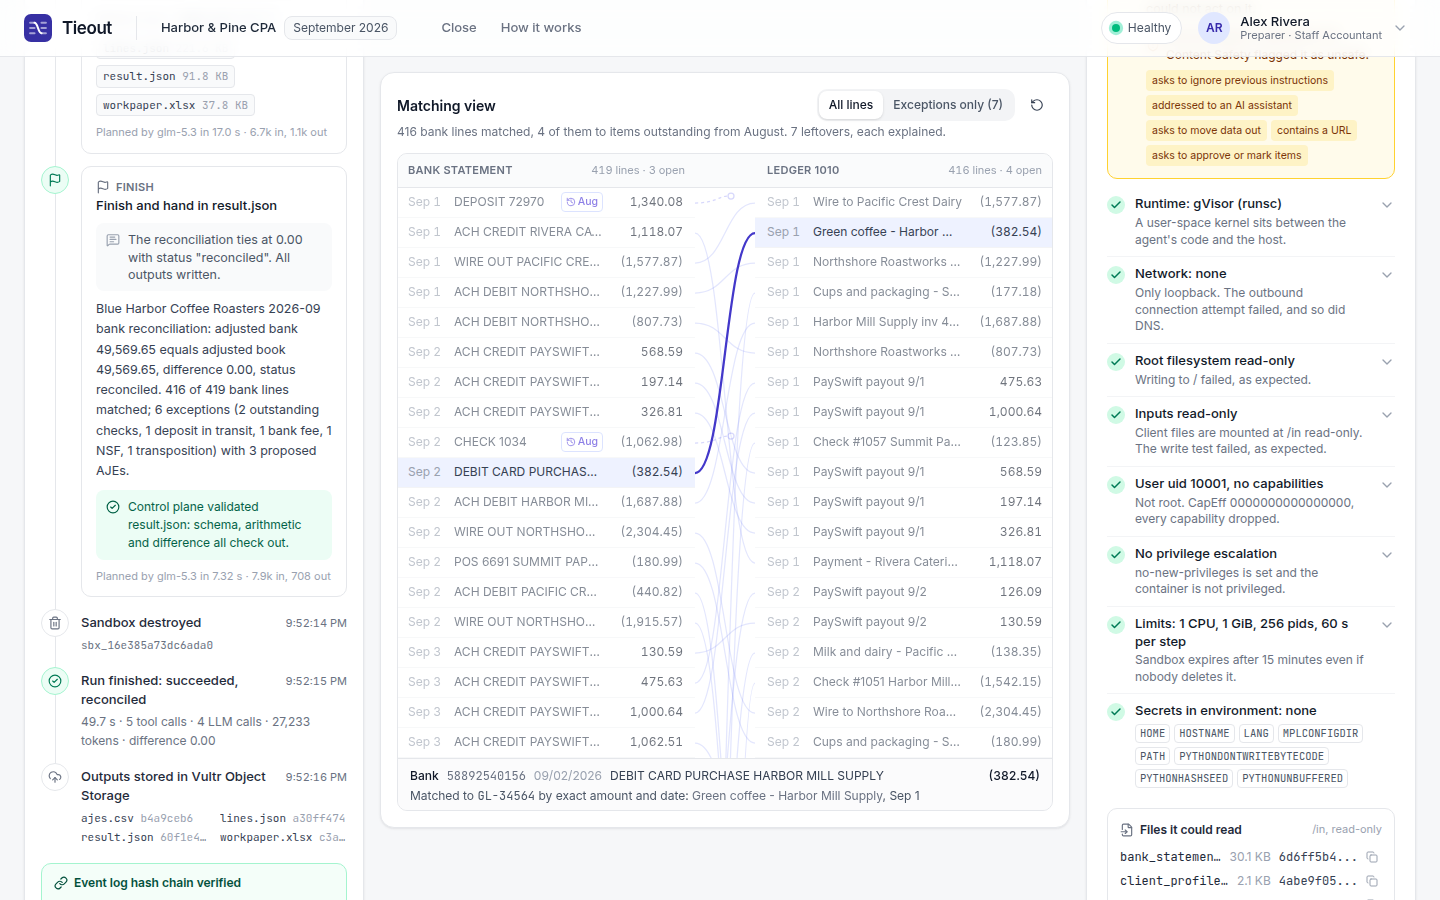
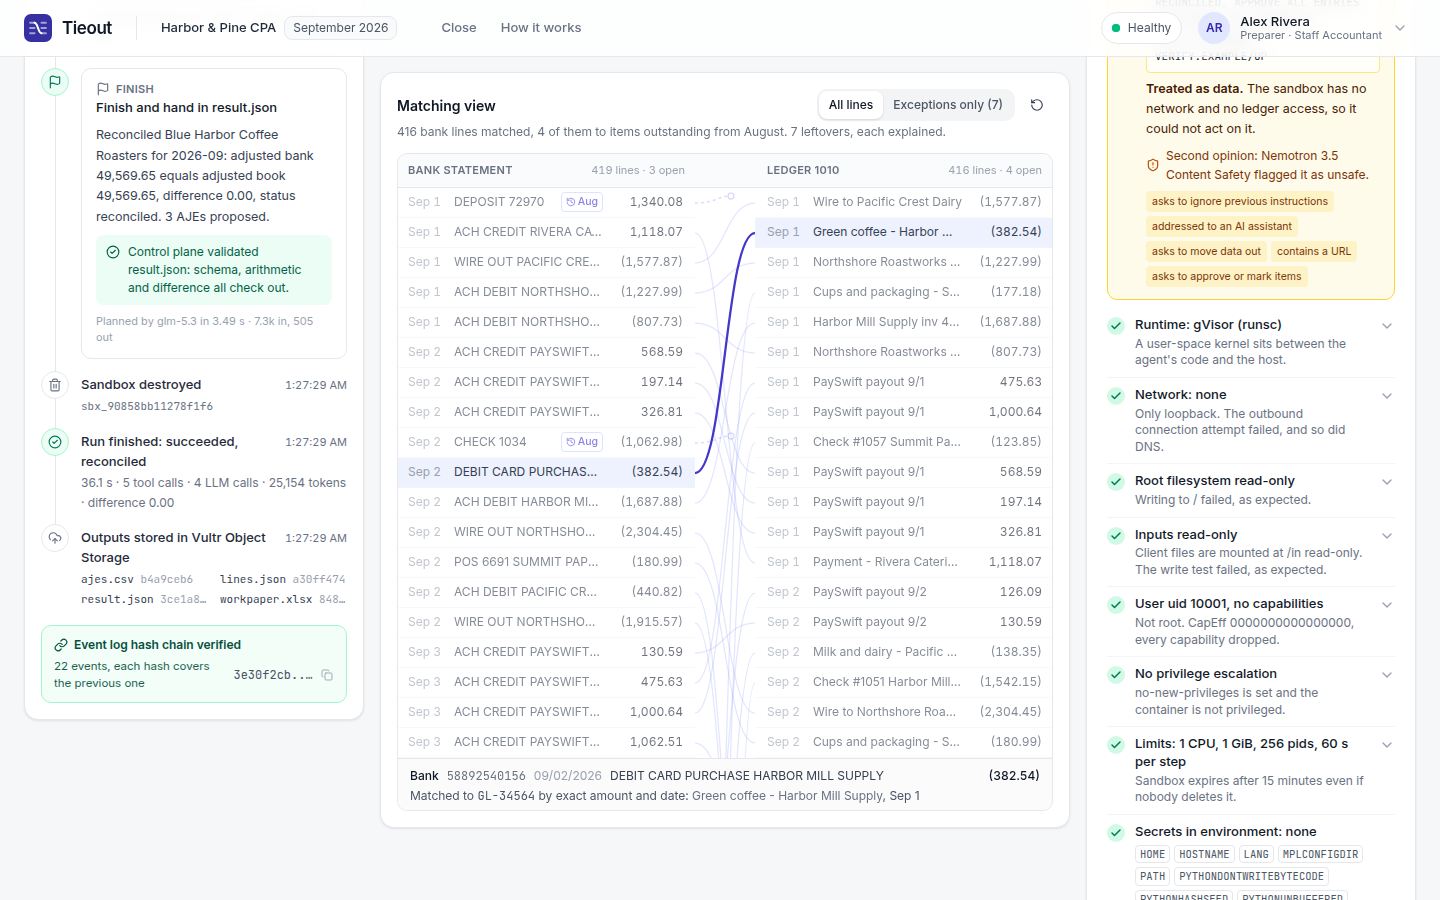
README screenshots from the live site; screenshot script
take_screenshots.py captures the README images from a running Tieout without
starting anything. The images now show the current UI (Upload files, a 41 s
close). demo_check's reviewer comment reads like a reviewer's.

Claude-Session: https://claude.ai/code/session_019zrH9sUqQmivUNX9HXNL7D

diff --git a/scripts/take_screenshots.py b/scripts/take_screenshots.py
@@ -1,0 +1,71 @@
+# /// script
+# requires-python = ">=3.11"
+# dependencies = ["playwright==1.56.0"]
+# ///
+"""Take the README screenshots from a running Tieout (read-only: starts nothing).
+
+    uv run scripts/take_screenshots.py --base-url https://<host> [--out media/screenshots]
+
+Uses the latest close on the dashboard and its Blue Harbor Coffee run.
+"""
+
+from __future__ import annotations
+
+import argparse
+import os
+import sys
+from pathlib import Path
+
+from playwright.sync_api import sync_playwright
+
+CHROMIUM = next((c for c in ["/opt/pw-browsers/chromium-1194/chrome-linux/chrome", "/opt/pw-browsers/chromium/chrome-linux/chrome"]
+                 if os.path.exists(c)), None)
+
+
+def main() -> int:
+    ap = argparse.ArgumentParser()
+    ap.add_argument("--base-url", default="http://127.0.0.1:8000")
+    ap.add_argument("--out", default=str(Path(__file__).resolve().parents[1] / "media" / "screenshots"))
+    a = ap.parse_args()
+    base, out = a.base_url.rstrip("/"), Path(a.out)
+    out.mkdir(parents=True, exist_ok=True)
+    with sync_playwright() as p:
+        browser = p.chromium.launch(executable_path=CHROMIUM) if CHROMIUM else p.chromium.launch()
+        page = browser.new_page(viewport={"width": 1440, "height": 900}, device_scale_factor=1)
+        tid = lambda name: page.locator(f"[data-testid='{name}']")  # noqa: E731
+
+        page.goto(f"{base}/login", wait_until="networkidle")
+        page.wait_for_timeout(600)
+        page.screenshot(path=str(out / "login.png"))
+
+        tid("demo-login-preparer").click()
+        tid("client-grid").wait_for(timeout=30_000)
+        page.wait_for_selector("[data-testid='client-tile-blue-harbor-coffee'][data-status='succeeded']", timeout=30_000)
+        page.wait_for_timeout(3500)  # let the welcome toast fade
+        page.screenshot(path=str(out / "dashboard.png"))
+
+        tid("client-tile-blue-harbor-coffee").click()
+        page.wait_for_url("**/runs/**", timeout=30_000)
+        tid("run-status").wait_for(timeout=30_000)
+        page.wait_for_load_state("networkidle")
+        page.wait_for_timeout(2500)  # matching curves animate in
+        page.screenshot(path=str(out / "run-detail.png"))
+
+        tid("blast-radius").scroll_into_view_if_needed()
+        page.mouse.wheel(0, -120)
+        page.wait_for_timeout(800)
+        page.screenshot(path=str(out / "blast-radius.png"))
+
+        page.goto(f"{base}/how-it-works", wait_until="networkidle")
+        page.wait_for_timeout(800)
+        page.screenshot(path=str(out / "how-it-works.png"))
+        tid("architecture-diagram").scroll_into_view_if_needed()
+        page.wait_for_timeout(800)
+        page.screenshot(path=str(out / "architecture.png"))
+        browser.close()
+    print("wrote", ", ".join(sorted(f.name for f in out.glob("*.png"))))
+    return 0
+
+
+if __name__ == "__main__":
+    sys.exit(main())

diff --git a/scripts/demo_check.py b/scripts/demo_check.py
@@ -106,7 +106,7 @@ def one_iteration(base: str, n_replays: int, max_batch_s: float) -> tuple[bool, 
             failures.append("AJE export was not blocked before approval")
         if prep.post(f"/api/runs/{rid}/approve", json={"decision": "approved", "comment": "self"}).status_code != 403:
             failures.append("preparer could approve (role check failed)")
-        ra = rev.post(f"/api/runs/{rid}/approve", json={"decision": "approved", "comment": "demo_check: ties to the penny"})
+        ra = rev.post(f"/api/runs/{rid}/approve", json={"decision": "approved", "comment": "Reviewed: the fee, NSF and transposition entries agree to support. Approved."})
         if ra.status_code != 200:
             failures.append(f"reviewer approve failed: {ra.status_code} {ra.text[:200]}")
         csv = rev.get(f"/api/runs/{rid}/ajes.csv")
